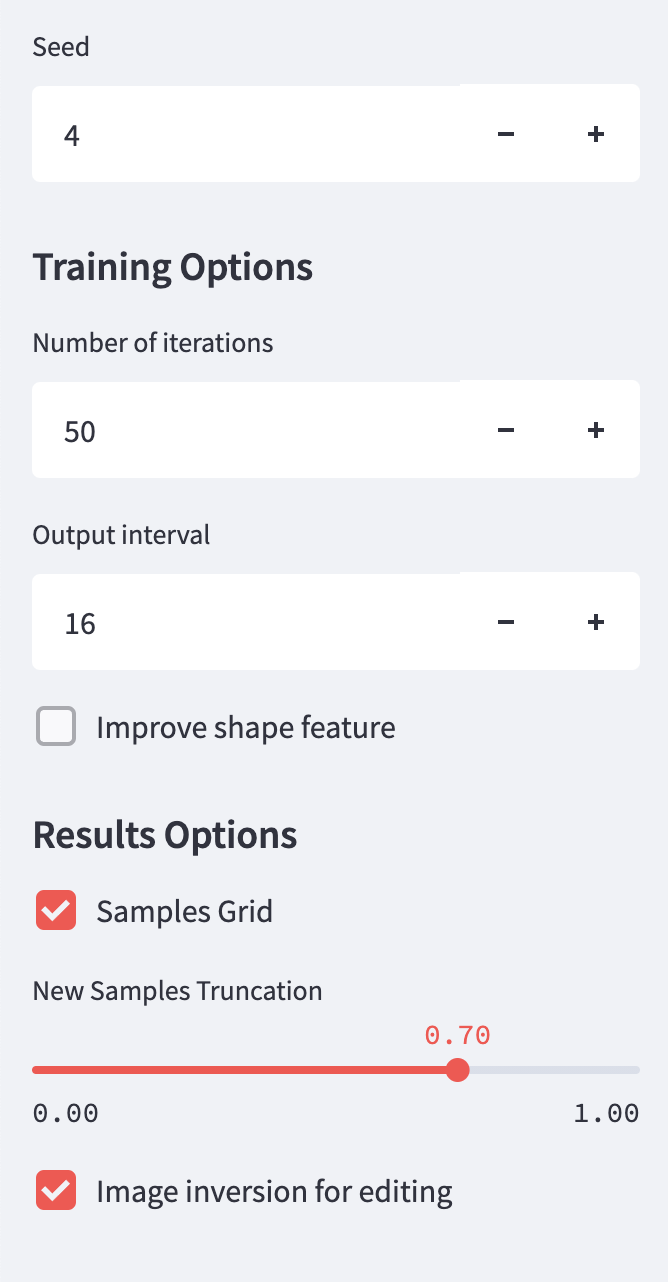
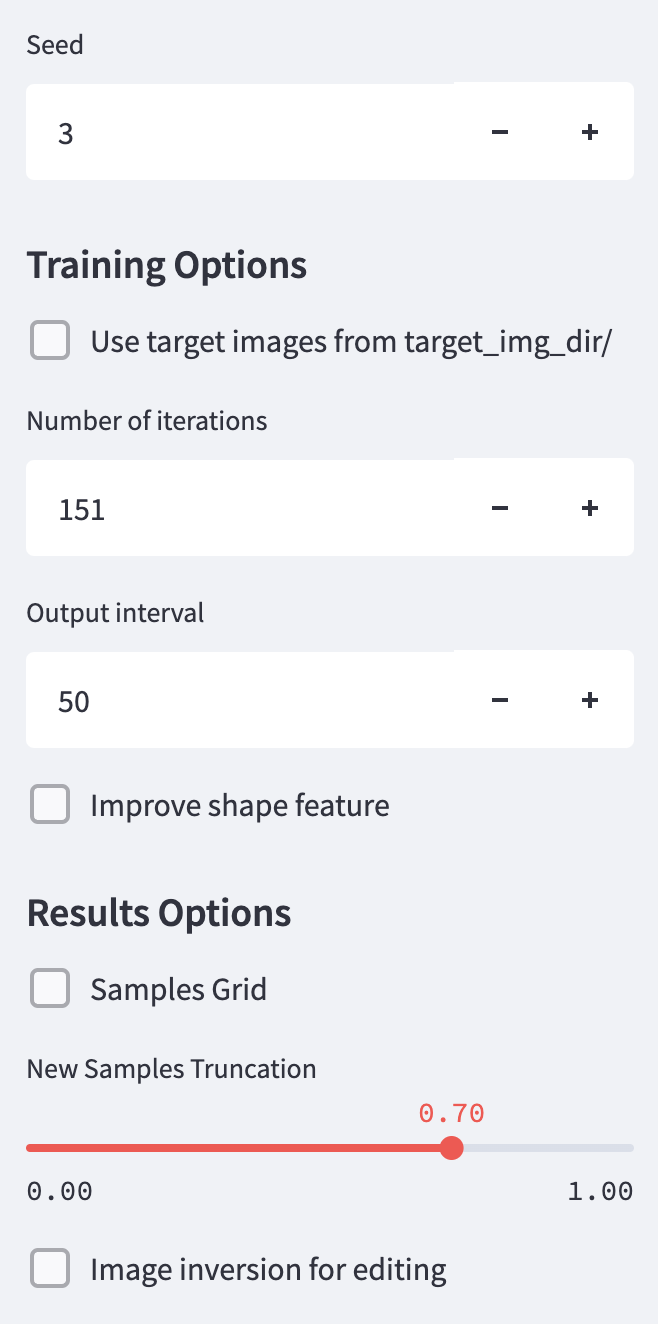
feat: add support for target_img_dir

diff --git a/app.py b/app.py
@@ -57,6 +57,13 @@ mixing = 0.9 if improve_shape else 0.0
 auto_layers_k = int(2 * (2 * np.log2(1024) - 2) / 3) if improve_shape else 0
 auto_layer_iters = 1 if improve_shape else 0
 
+# Optionnal target_image_dir
+if sidebar_params['use_target_img_dir']:
+    target_img_list = [os.path.join('target_img_dir', filename) for filename in os.listdir('target_img_dir')]
+    target_img_list = None if len(target_img_list) == 0 else target_img_list
+else:
+    target_img_list = None
+
 training_args = {
     "size": APP_CONFIG['ZSGAN']['size'],
     "batch": 2,
@@ -83,7 +90,7 @@ training_args = {
     "phase": None,
     "sample_truncation": 0.7,
     "save_interval": sidebar_params['save_interval'],
-    "target_img_list": None,
+    "target_img_list": target_img_list,
     "img2img_batch": 16,
     "device": device
 }
@@ -122,8 +129,7 @@ def on_reset_model_button():
 def on_save_button():
     torch.save(
         {
-            "g_ema": net.generator_trainable.generator.state_dict(),
-            "g_optim": None if g_optim is None else g_optim.state_dict(),
+            "g_ema": net.generator_trainable.generator.state_dict()
         },
         f"{ckpt_dir}/{net.source_class}_{net.target_class}_{str(st.session_state.iter_count).zfill(6)}.pt",
     )

diff --git a/st_app/sidebar.py b/st_app/sidebar.py
@@ -8,6 +8,7 @@ def get_sidebar_params():
 
     # Training Options
     st.sidebar.header('Training Options')
+    sidebar_params['use_target_img_dir'] = st.sidebar.checkbox('Use target images from /target_img_dir', value=False)
     sidebar_params['training_iterations'] = st.sidebar.number_input('Number of iterations', min_value=1, value=151)
     sidebar_params['output_interval'] = st.sidebar.number_input(
         'Output interval',

diff --git a/README.md b/README.md
@@ -13,7 +13,7 @@
   
 The StyleGAN-nada framework introduces a method where one of two paired StyleGAN2 generators is trained with a CLIP guided loss for a few iterations. I implemented a streamlit interface to visually observe the training and testing of a Stylegan2-ffhq-config-f based model. By doing so, you can explore with an experimental approach some ideas for the source and target classes, without the need to run scripts multiple times or to connect to the official colab notebook demo if you dispose of GPU ressources.
     
-The code adapts the a large part of the functionnalities demonstrated in the authors' colab notebook.  
+The code adapts a large part of the functionnalities demonstrated in the authors' colab notebook.  
 Image inversion currently supports the [ReStyle](https://github.com/yuval-alaluf/restyle-encoder) encoder with a [e4e](https://github.com/omertov/encoder4editing) base model.    
 
 
@@ -43,7 +43,7 @@ Use the following command to run the demo and access it in your browser:
 streamlit run app.py
 ```
 
-**Note**: this streamlit application is not developped for production, as you may face gpu memory issues if multiple users access it and train different models at the same time.  
+**Note**: this streamlit application is not developped for deployment, as you may face gpu memory issues if multiple users access it and train different models at the same time.  
   
 Under the main section, you can enter a source and target class:  
   
@@ -63,3 +63,5 @@ You can control the main training parameters with the sidebar, as well as activa
   <img src="img/samples_grid.png" width="30%"/>
   <img src="img/image_inversion.png" width="30%"/>
 </p>
+  
+If you want to guide the model with additional images, you can add image files to a `target_img_dir` at the root folder of the repo.
